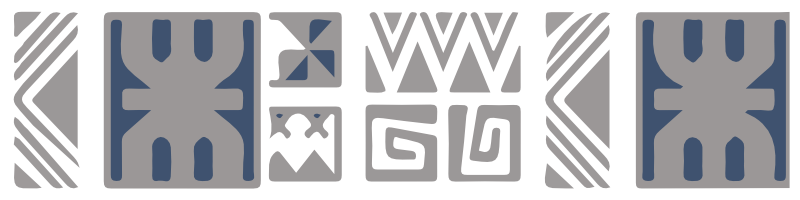
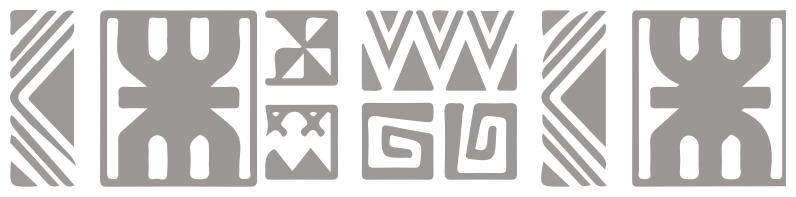
Update background for about and tools
change to slight gradient and fix pattern

diff --git a/_sass/parts/article-page.scss b/_sass/parts/article-page.scss
@@ -1,7 +1,9 @@
 .article-page {
-  background-image: $ta-background-image-url;
+  
+  background-image: $ta-background-image-url, linear-gradient(140deg, rgba(44,60,85,1) 0%, rgba(63,82,111,1) 18%, rgba(84,97,200,1) 100%);
   background-repeat: repeat;
-  background-color: $background-colour;
+  // background: rgb(3,4,9);
+  // background-color: $background-colour;
   padding-bottom: 4em;
   
   .page-image {
